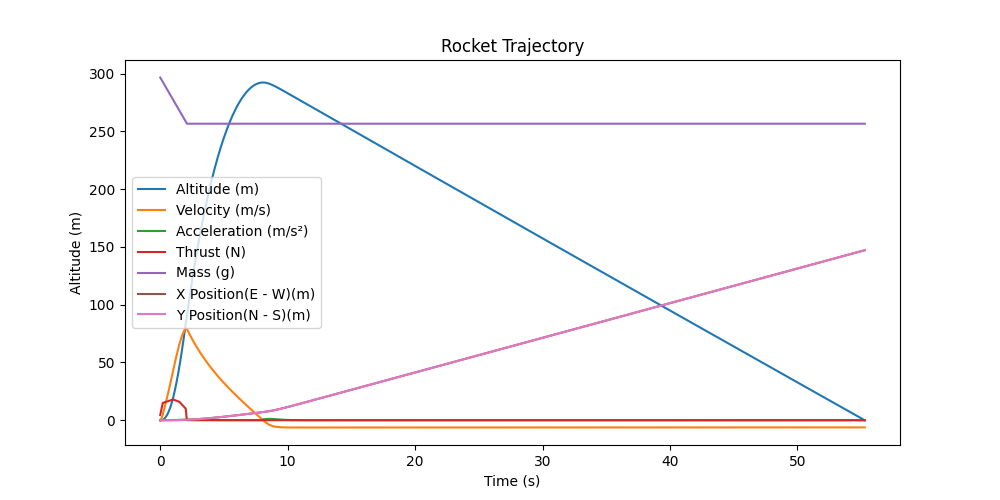
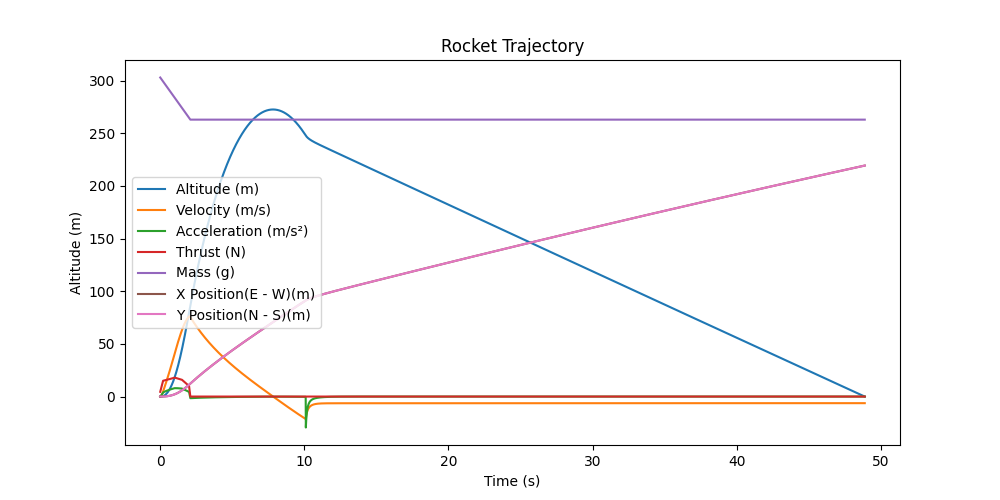
3D Thrust, Colored 3D lines, 3D Wind, Landing position and time

diff --git a/plot3dflight.py b/plot3dflight.py
@@ -1,12 +1,35 @@
 from mpl_toolkits.mplot3d import Axes3D
 import matplotlib.pyplot as plt
+import numpy as np
+from matplotlib.colors import ListedColormap, Normalize
+from mpl_toolkits.mplot3d.art3d import Line3DCollection
+from matplotlib.lines import Line2D
+
+burn_time = 2.09
+ejection_delay = 8.0
 
 
-def plot_3d_trajectory(height, x_position, y_position):
+def plot_3d_trajectory(height, x_position, y_position, time):
     fig = plt.figure(figsize=(10, 7))
     ax = fig.add_subplot(111, projection="3d")
 
-    ax.plot(x_position, y_position, height, color="blue", linewidth=2)
+    phase = []
+    for t in time:
+        if t <= burn_time:
+            phase.append(0)
+        elif t <= burn_time + ejection_delay:
+            phase.append(1)
+        else:
+            phase.append(2)
+    phase = np.array(phase)
+    cmap = ListedColormap(["red", "blue", "green"])
+    points = np.array([x_position, y_position, height]).T.reshape(-1, 1, 3)
+    segments = np.concatenate([points[:-1], points[1:]], axis=1)
+    norm = Normalize(vmin=0, vmax=2)
+    lc = Line3DCollection(segments, cmap=cmap, norm=norm, linewidth=2)
+    lc.set_array(phase[:-1])
+
+    ax.add_collection(lc)
 
     ax.set_xlabel("X Position(N-S)(m)")
     ax.set_ylabel("Y Position(E-W)(m)")
@@ -14,5 +37,17 @@ def plot_3d_trajectory(height, x_position, y_position):
     ax.set_title("3D Rocket Trajectory")
 
     ax.plot(x_position, y_position, [0] * len(x_position), color="gray", alpha=0.3)
+
+    legend = [
+        Line2D([0], [0], color="red", lw=2, label="Burn"),
+        Line2D([0], [0], color="blue", lw=2, label="Coast"),
+        Line2D([0], [0], color="green", lw=2, label="Parachute"),
+    ]
+
+    ax.legend(handles=legend)
+
+    ax.set_xlim(min(x_position), max(x_position))
+    ax.set_ylim(min(y_position), max(y_position))
+    ax.set_zlim(0, max(height))
 
     plt.show()

diff --git a/rocketAPI.py b/rocketAPI.py
@@ -8,6 +8,8 @@ from small_functions import (
     get_mass,
     get_parachute_drag,
     get_3d_drag,
+    get_wind,
+    get_directional_thrust,
 )
 
 """"
@@ -32,9 +34,7 @@ def simulate_flight(rocket, dry_rocket_mass, tip_chord, root_chord, fin_height):
     x_position = []
     y_position = []
     max_h = 0
-    ejection_delay = 6.0
-    wind_speed_x = 3  # m/s
-    wind_speed_y = 3
+    ejection_delay = 8.0
     vx = 0
     vz = 0
     vy = 0
@@ -44,10 +44,15 @@ def simulate_flight(rocket, dry_rocket_mass, tip_chord, root_chord, fin_height):
             T = 0
         else:
             T = get_thrust(t)
-            # T = 16
+            thrust_dir = get_directional_thrust(vx, vy, vz)
+            T_x = T * thrust_dir[0]
+            T_y = T * thrust_dir[1]
+            T_z = T * thrust_dir[2]
 
         mass = get_mass(t) + dry_rocket_mass
         mass_list.append(mass)
+
+        wind_speed_x, wind_speed_y = get_wind(h)
 
         v_rel_x = vx - wind_speed_x
         v_rel_y = vy - wind_speed_y
@@ -66,7 +71,7 @@ def simulate_flight(rocket, dry_rocket_mass, tip_chord, root_chord, fin_height):
             fin_drag = drag_fin(tip_chord, root_chord, fin_height, v_rel, h)
             total_drag = base_D + drag_f + fin_drag
         D_x, D_z, D_y = get_3d_drag(v_rel, v_rel_x, v_rel_z, total_drag, v_rel_y)
-        az, ax, ay = acceleration(mass, D_y, D_x, T, D_z)
+        az, ax, ay = acceleration(mass, D_y, D_x, D_z, T_x, T_y, T_z)
 
         vz += az * dt
         vx += ax * dt

diff --git a/small_functions.py b/small_functions.py
@@ -20,6 +20,8 @@ initial_mass = dry_mass + fuel_mass
 parachute_cd = 1.5
 parachute_diameter = 0.3
 parachute_area = np.pi * (parachute_diameter / 2) ** 2
+wind_speed_x = 3
+wind_speed_y = 3
 
 thrust_time = np.array([0.0, 0.1, 0.2, 0.5, 1.0, 1.5, 2.0, 2.09])
 thrust_values = np.array([4.5, 10.0, 15.0, 16.0, 18.0, 16.0, 10.0, 0.0])
@@ -125,11 +127,17 @@ def drag_fin(tip_chord, root_chord, fin_height, v_rel, h):
     return D_fin
 
 
-def acceleration(mass, D_y, D_x, T, D_z):
-    az = (T - D_z - (mass * g)) / mass
-    ax = -D_x / mass
-    ay = -D_y / mass
+def acceleration(mass, D_y, D_x, D_z, T_x, T_y, T_z):
+    az = (T_z - D_z - (mass * g)) / mass
+    ax = (T_x - D_x) / mass
+    ay = (T_y - D_y) / mass
     return az, ax, ay
+
+
+def get_wind(h):
+    wind_force_x = wind_speed_x + 0.002 * h
+    wind_force_y = wind_speed_y + 0.002 * h
+    return wind_force_x, wind_force_y
 
 
 def get_3d_drag(v_rel, v_rel_x, v_rel_z, D_total, v_rel_y):
@@ -144,3 +152,12 @@ def get_3d_drag(v_rel, v_rel_x, v_rel_z, D_total, v_rel_y):
         )  # Assuming drag is proportional to velocity components
         D_z = D_total * (v_rel_z / v_rel)
     return D_x, D_z, D_y
+
+
+def get_directional_thrust(vx, vy, vz):
+    v_mag = np.sqrt(vx**2 + vy**2 + vz**2)
+    if v_mag == 0:
+        thrust_dir = np.array([0, 0, 1])
+    else:
+        thrust_dir = np.array([vx, vy, vz]) / v_mag
+    return thrust_dir

diff --git a/plot_flight.py b/plot_flight.py
@@ -21,3 +21,9 @@ def plot_flight(
     plt.savefig("rocket_trajectory.png")
     plt.grid()
     plt.show()
+
+    landing_x = x_position[-1]
+    landing_y = y_position[-1]
+    landing_time = time[-1]
+    print(f"Landing Position: {landing_x} m(+N, -S), {landing_y} m(+E, -W)")
+    print(f"Landing Time: {landing_time}")

diff --git a/main.py b/main.py
@@ -138,6 +138,7 @@ def main():
         best_height,
         best_x_position,
         best_y_position,
+        best_time,
     )
 
     results = {
